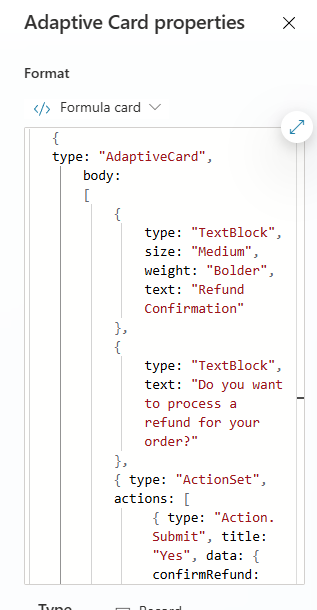
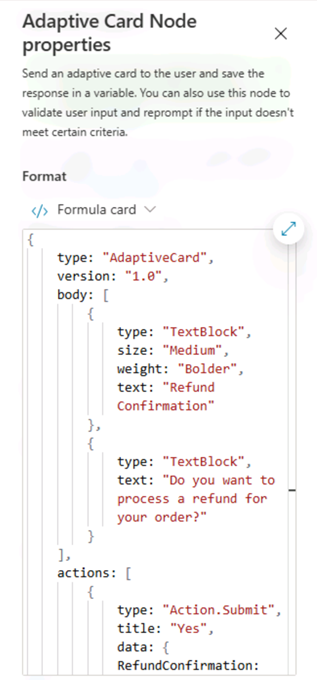
fix(lab01/ex04/t04): rework adaptive card node flow and schema steps
fix(lab01/ex04): refresh adaptive-card and variables-properties screenshots

style(lab01): apply microsoft learn grammar and formatting fixes

Changed region(s): [[0.0568, 0.0, 0.9937, 1.0], [0.8517, 0.0311, 0.9369, 0.0623]]

diff --git a/Instructions/Labs/01-01-topics.md b/Instructions/Labs/01-01-topics.md
@@ -17,7 +17,7 @@ lab:
 
 Zava Retail Group is a global retail company operating in brick-and-mortar stores and a rapidly expanding e-commerce platform. To accelerate digital transformation, Zava established an AI Center of Excellence (COE) tasked with identifying high-impact, agentic AI opportunities that improve operational efficiency, employee productivity, and strategic decision-making.
 
-Zava operates in a hybrid cloud environment-Azure for productivity and analytics, AWS for certain legacy workloads, and SAP for supply chain and inventory. They rely on Microsoft 365, Teams, SharePoint, Azure DevOps (ADO), and a mix of third-party and custom systems.
+Zava operates in a hybrid cloud environment—Azure for productivity and analytics, AWS for certain legacy workloads, and SAP for supply chain and inventory. They rely on Microsoft 365, Teams, SharePoint, Azure DevOps (ADO), and a mix of third-party and custom systems.
 
 However, the COE faces pressure: Google and AWS teams are actively proposing AI solutions, and Zava’s leadership wants to quickly identify a strategic partner with security, governance, extensibility, and enterprise-grade readiness.
 
@@ -119,7 +119,7 @@ Before you start the lab exercises, you must create a development environment fo
 
 1. In a new browser tab, navigate to `https://copilotstudio.microsoft.com/` and sign in if prompted.
 
-1. Select **Get Started**, if prompted leaving the default country/region.
+1. Select **Get Started**. If prompted, leave the default country/region.
 
 1. Skip any welcome messages.
 
@@ -131,7 +131,7 @@ Before you start the lab exercises, you must create a development environment fo
 
 1. In the left navigation pane, select the ellipses (**...**), and select **Solutions**.
 
-1. You should see several solutions including the *Default Solution* and the *Common Data Services Default Solution*.
+1. You should see several solutions, including the *Default Solution* and the *Common Data Services Default Solution*.
 
    ![List of solutions in Maker portal.](media/solutions-list.png)
 
@@ -187,7 +187,7 @@ In this exercise, you’ll create the Zava Retail Help Desk Agent and configure 
 
 1. Select **Update**.
 
-1. In the *Start building by describing what your agent needs to do* text box, Enter the following prompt:
+1. In the *Start building by describing what your agent needs to do* text box, enter the following prompt:
 
    
    ``` prompt
@@ -261,7 +261,7 @@ In this exercise, you’ll create the Zava Retail Help Desk Agent and configure 
 
 1. Scroll up to the top of the instructions panel, and locate **Step 2** in the text that you just pasted.
 
-1. Highlight and delete **[current date]**, then enter **/** From the list of suggestions, select **Power FX**.
+1. Highlight and delete **[current date]**, then enter `/`. From the list of suggestions, select **Power FX**.
 
    ![Screenshot of inserting a formula into the agent instructions](media/instructions-add-formula.jpg)
 
@@ -302,7 +302,7 @@ In this exercise, you’ll create the Zava Retail Help Desk Agent and configure 
    - For order data-related answers respond with bullet points.
    ```
 
-   ![Screenshot of response  settings](media/response-settings.png)
+   ![Screenshot of response settings](media/response-settings.png)
 
 1. Select **Save**
 
@@ -411,7 +411,9 @@ In this exercise, you'll build the **refund-initiator** topic as a reusable work
 
 1. On the command bar for the agent, select **Topics** and then select **refund-initiator**.
 
-1. If a message node has been added to the topic, at the top right of the node, select the ellipses (**…**), then select **Delete**.
+1. If a **Message** node has been added to the topic, at the top right of the node, select the ellipses (**…**), then select **Delete**.
+
+1. If a **Question** node has been added to the topic, at the top right of the node, select the ellipses (**…**), then select **Delete**.
 
 1. Below the **Trigger** node, select **Add node** (the **+** sign) and then select **Advanced**. Select **Generative answers**.
 
@@ -423,7 +425,7 @@ In this exercise, you'll build the **refund-initiator** topic as a reusable work
 
    ![Generative answers node title](media/generative-answers-node-title.png)
 
-1. In the **Input** field, select the ellipses (**...**), select **System** tab, and then select `Activity.Text`.
+1. In the **Input** field, select the ellipses (**...**), select the **System** tab, and then select `Activity.Text`.
 
    ![Generative answers node input](media/generative-answers-node-input.png)
 
@@ -434,7 +436,7 @@ In this exercise, you'll build the **refund-initiator** topic as a reusable work
 
 1. In the **Create generative answers properties** pane, in the **Knowledge sources** section, set **Search only selected sources** to **On**.
 
-1. In the list of knowledge sources, select **Zava Sales Transactions** file.
+1. In the list of knowledge sources, select the **Zava Sales Transactions** file.
 
    ![Generative answers node knowledge settings](media/generative-answers-node-knowledge.png)
 
@@ -478,7 +480,7 @@ In this exercise, you'll build the **refund-initiator** topic as a reusable work
 
    ![Screenshot of adding a node.](media/add-message-node.png)
 
-1. In the text field for the **Message** node, select **Insert variable** (**{X}**), select **System** tab and then select `Activity.value`.
+1. In the text field for the **Message** node, select **Insert variable** (**{X}**), select the **System** tab, and then select `Activity.value`.
 
    ![Screenshot of adding variable to a message node.](media/message-node-value.png)
 
@@ -492,7 +494,7 @@ In this exercise, you'll build the **refund-initiator** topic as a reusable work
 
 1. Submit the following prompt:
 
-   ```
+   ``` prompt
    How can I request a refund for order TXN‑2008, which I no longer need?
    ```
 
@@ -502,7 +504,7 @@ In this exercise, you'll build the **refund-initiator** topic as a reusable work
 
 ### Task 4.4 – Add an adaptive card node
 
-In addition to adding updating existing nodes, you can use Copilot to add new ones.
+In addition to adding and updating existing nodes, you can use Copilot to add new ones.
 
 1. On the command bar for the agent, select **Topics** and then select **refund-initiator**.
 
@@ -516,47 +518,71 @@ In addition to adding updating existing nodes, you can use Copilot to add new on
 
 1. In the **Edit with Copilot** pane, in the **What do you want to do?** field, enter the following text:
 
-   `Ask the user to confirm the refund with an adaptive card. If the adaptive card response is Yes then add a message node confirming refund. If the adaptive card response is no then  End all topics`
+   `Ask the user to confirm the refund with an adaptive card. If the adaptive card response is Yes, then add a message node confirming the refund. If the adaptive card response is No, then end all topics.`
 
 1. Select **Update**.
 
-   An Ask with an Adaptive Card node is added to the end of the topic.
+   A Message node with a Media Adaptive Card is added to the end of the topic.
 
    ![Screenshot of the ask with adaptive card node .](media/ask-adaptive-card-node.png)
 
-1. In the text field for the **Message** node, select **Insert variable** (**{X}**), select **Custom** tab and then select `varGenerateAIResponse`.
+1. If Copilot generates a **Question** node or a **Message** node, at the top right of the node, select the ellipses (**…**), and then select **Delete**.
 
-1. Select the **Media** box in the Adaptive Card. The Adaptive Card properties should appear on the right of the page.
+1. Select the **Add node** (the **+** sign) below the **Message node** that contains the variable Activity.Value, and then select **Ask with Adaptive card** node.
+
+1. Select the **Media** box in the Adaptive Card. The **Adaptive Card Node properties** should appear on the right of the page.
 
    ![Screenshot of the Adaptive Card properties.](media/adaptive-card-properties.png)
 
+1. Change the **Format** from **JSON** to **Formula**.
+
 1. Your Adaptive Card formula should look similar to the one above. If it doesn't, then you can paste in the formula below:
 
-   ```powerfx
-   {
-   type: "AdaptiveCard", 
-       body: 
-       [
-           {
-               type: "TextBlock",
-               size: "Medium",
-               weight: "Bolder",
-               text: "Refund Confirmation"
-           },
-           {
-               type: "TextBlock",
-               text: "Do you want to process a refund for your order?"
-           },
-           { type: "ActionSet", actions: [
-                { type: "Action.Submit", title: "Yes", data: { confirmRefund: true }
-                },
-                { type: "Action.Submit", title: "No", data: { confirmRefund: false }
-                }
-                ]
+    ```powerfx
+    {
+        type: "AdaptiveCard",
+        version: "1.0",
+        body: [
+            {
+                type: "TextBlock",
+                size: "Medium",
+                weight: "Bolder",
+                text: "Refund Confirmation"
+            },
+            {
+                type: "TextBlock",
+                text: "Do you want to process a refund for your order?"
             }
-       ]
-   }
-   ```
+        ],
+        actions: [
+            {
+                type: "Action.Submit",
+                title: "Yes",
+                data: { RefundConfirmation: "Yes" }
+            },
+            {
+                type: "Action.Submit",
+                title: "No",
+                data: { RefundConfirmation: "No" }
+            }
+        ]
+    }
+    ```
+
+1. Select **Edit schema**, and then paste the following schema:
+
+```
+    kind: Record
+    properties:
+        RefundConfirmation:
+            type: String
+```
+
+1. Select **Confirm**.
+
+1. Select the **Condition** node and change the value from **true** to **Yes**.
+
+1. Select the **Add node** (the **+** sign) below the **Message** node, and then select **Topic management** > **End all topics**. Do the same for the **No** branch of the condition.
 
 1. On the command bar for the topic, select **Save**.
 
@@ -580,7 +606,7 @@ Enable variables to be accessed by other topics.
 
 1. Select **Global**.
 
-1. select **X** to close the variable pane.
+1. Select **X** to close the variable pane.
 
 1. Select **Save**.
 
@@ -598,11 +624,11 @@ In this exercise, you will test topic routing and confirm the conversation follo
 
 1. At the top of the **Test pane**, select the **Start new test session** icon **+**.
 
-1. When the **Conversation Start** message appears, your agent will start a conversation. In response, enter the following prompt:
+1. When the **Conversation Start** message appears, your agent starts a conversation. In response, enter the following prompt:
 
    `Provide a list of transaction ids and products for loyalty id ZAVA-10100`
 
-1. The agent should respond with the a list of three orders.
+1. The agent should respond with a list of three orders.
 
    ![Screenshot of the Conversation.](media/topic-conversation-1.png)
 
@@ -610,7 +636,7 @@ In this exercise, you will test topic routing and confirm the conversation follo
 
    `Start a refund for TXN-2036`
 
-1. Confirm `Yes` to the adaptive cared.
+1. Confirm `Yes` to the adaptive card.
 
    The agent responds with a confirmation message indicating the refund process has been submitted.
 
@@ -618,4 +644,4 @@ In this exercise, you will test topic routing and confirm the conversation follo
 
 ## Summary
 
-In this lab, you created the Cthe refund-initiator topis and used nodes to enforce a structured, step-by-step interaction while generative AI remained enabled. You also configured variable scope so information collected can be used across topics.
+In this lab, you created the refund-initiator topic and used nodes to enforce a structured, step-by-step interaction while generative AI remained enabled. You also configured variable scope so information collected can be used across topics.
